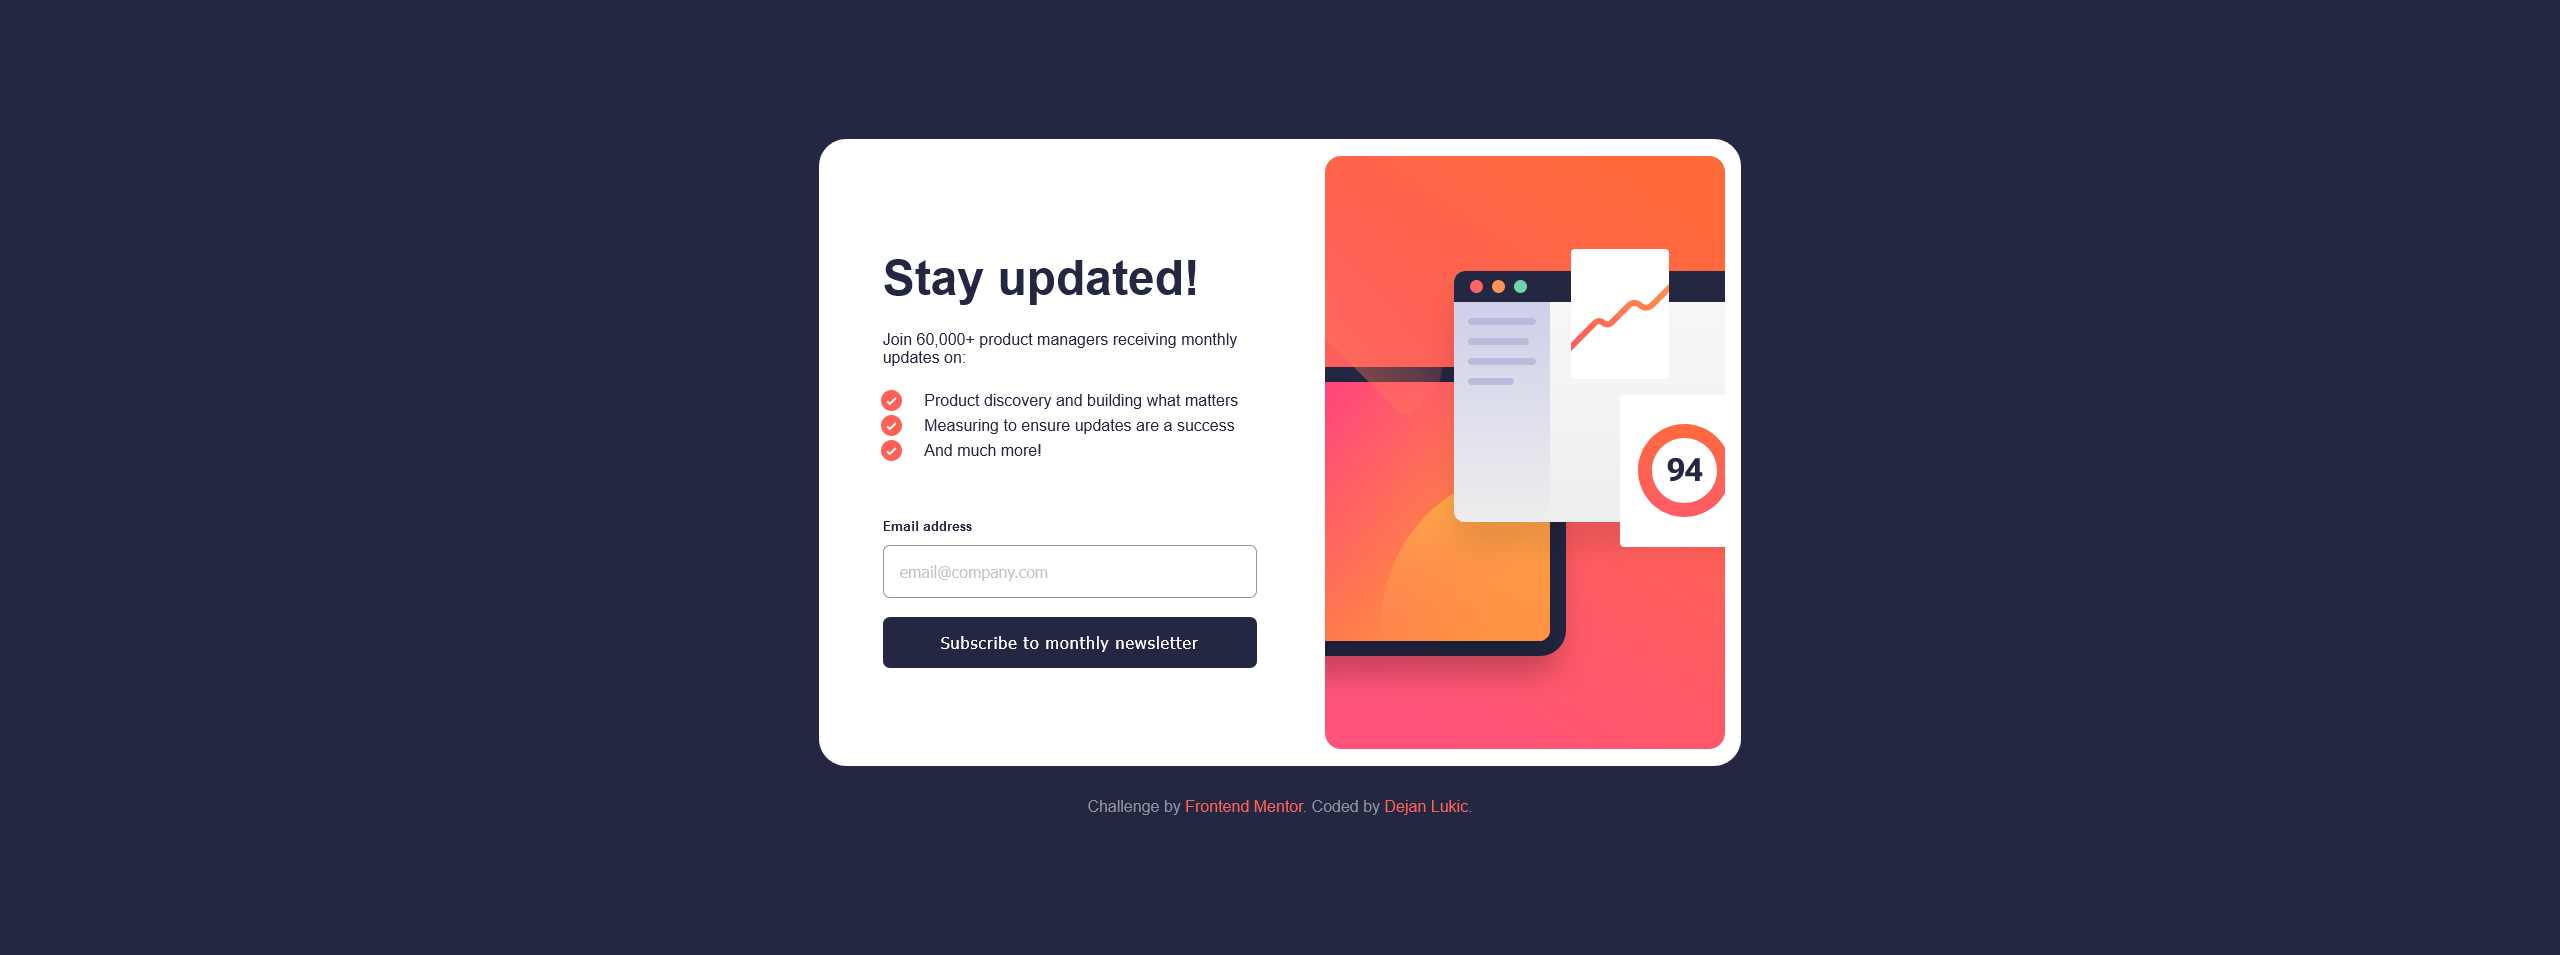
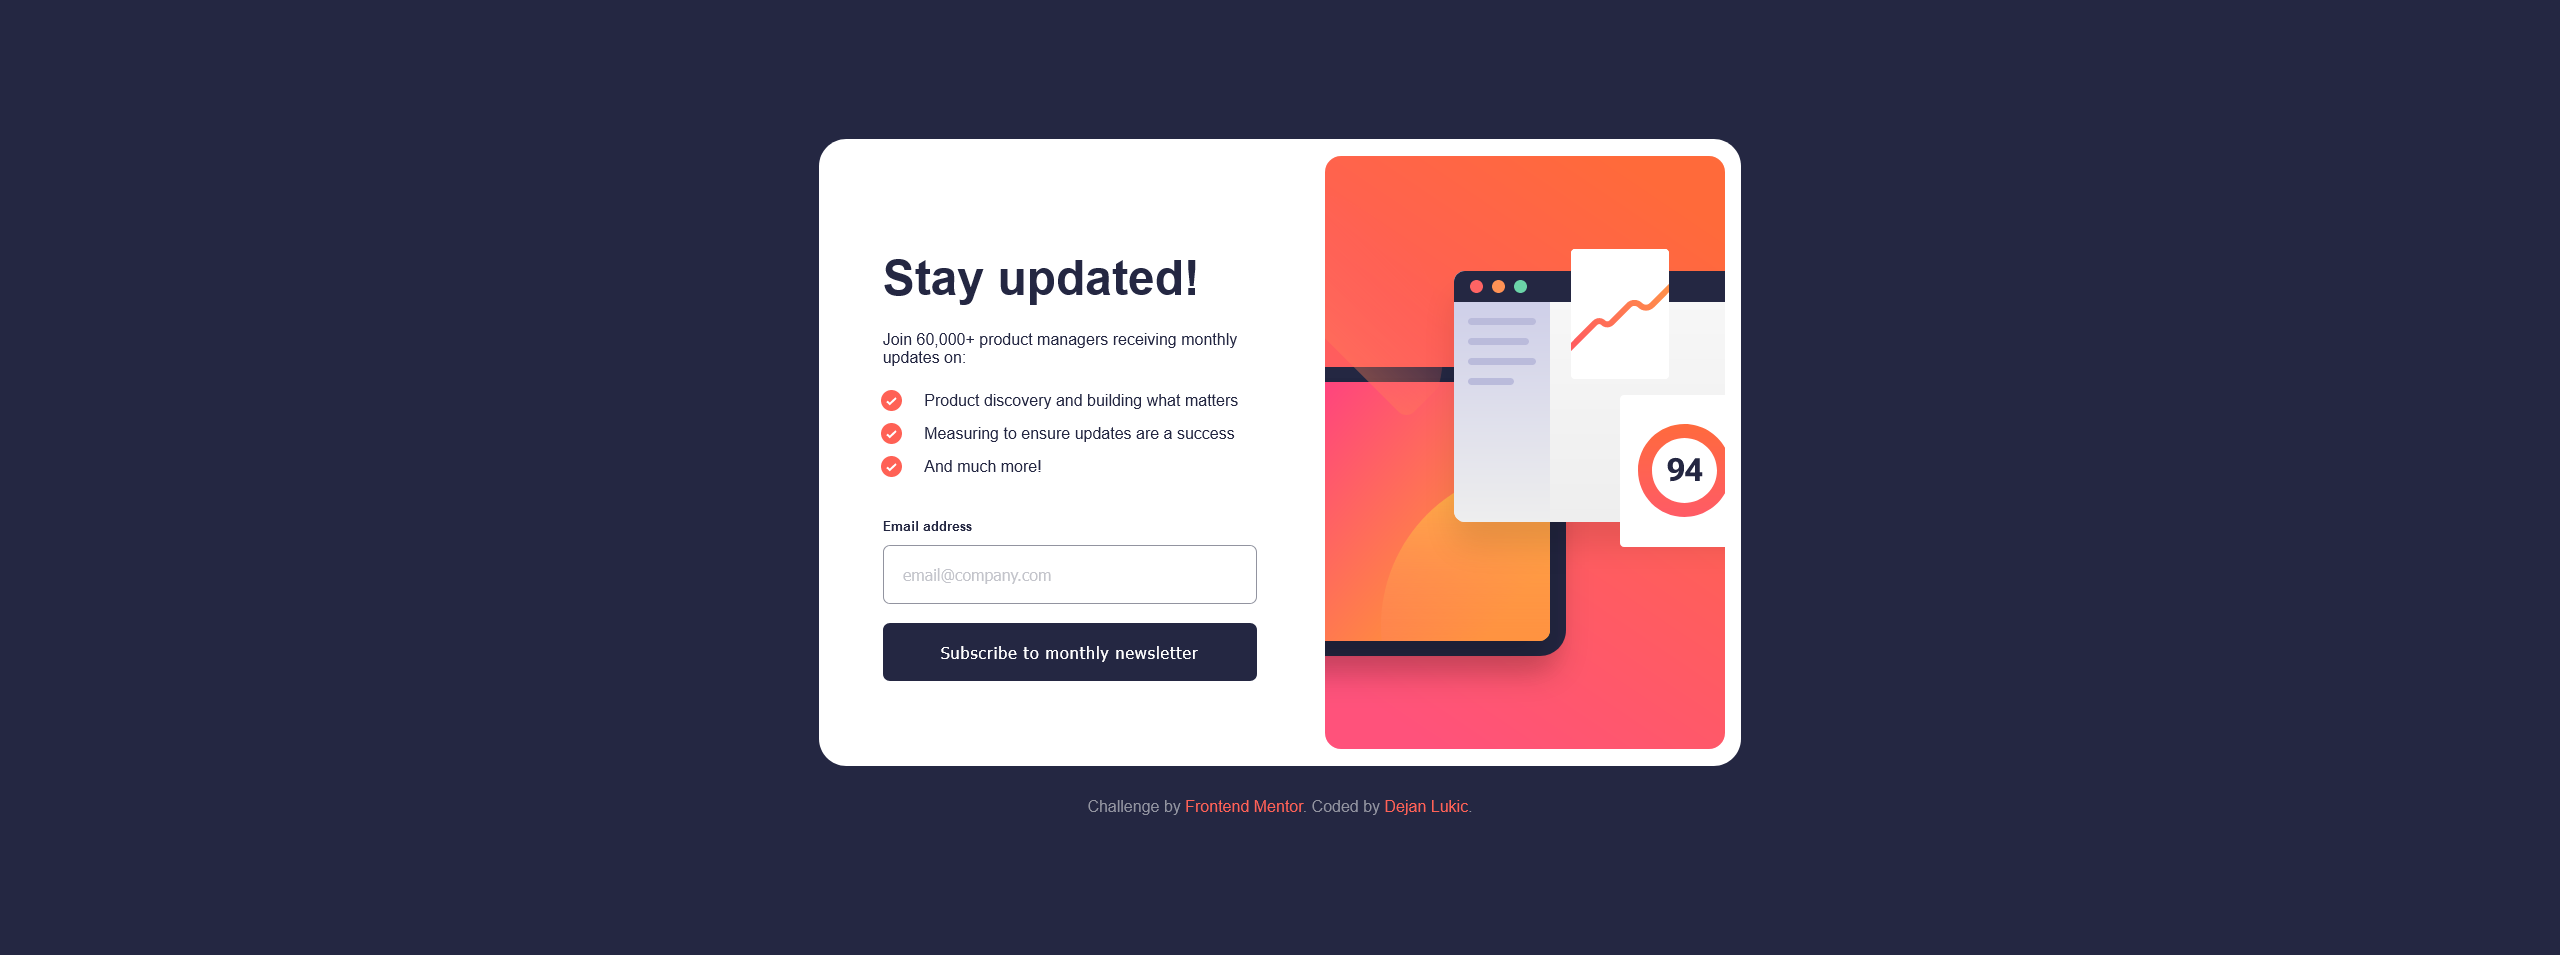
small fixes

Changed region(s): [[0.3438, 0.6377, 0.5, 0.7288], [0.3438, 0.4251, 0.4688, 0.5162], [0.3438, 0.577, 0.4062, 0.6073]]

diff --git a/newsletter-sign-up-with-success-message-main/style.css b/newsletter-sign-up-with-success-message-main/style.css
@@ -68,6 +68,7 @@ section:nth-child(1) {
     & li {
       color: var(--dark-slate-grey);
       list-style-image: url("./assets/images/icon-list.svg");
+      margin-block: 0.5rem;
       & span {
         position: relative;
         margin-left: 1rem;
@@ -81,7 +82,7 @@ form {
   display: flex;
   flex-direction: column;
   gap: 1.2rem;
-  margin-top: 3.4rem;
+  margin-top: 2.4rem;
 }
 
 label {
@@ -98,7 +99,7 @@ label span {
 }
 
 input {
-  padding: 1rem;
+  padding: 1.2rem;
   border-radius: 7px;
   border: 1px solid var(--grey);
   font-size: 1rem;

diff --git a/README.md b/README.md
@@ -1,4 +1,4 @@
-2. Newsletter Sign Up With Success message
+2. Newsletter Sign Up With Success Message
 
 ![](./newsletter-sign-up-with-success-message-main/assets/images/screenshot.png)
 
